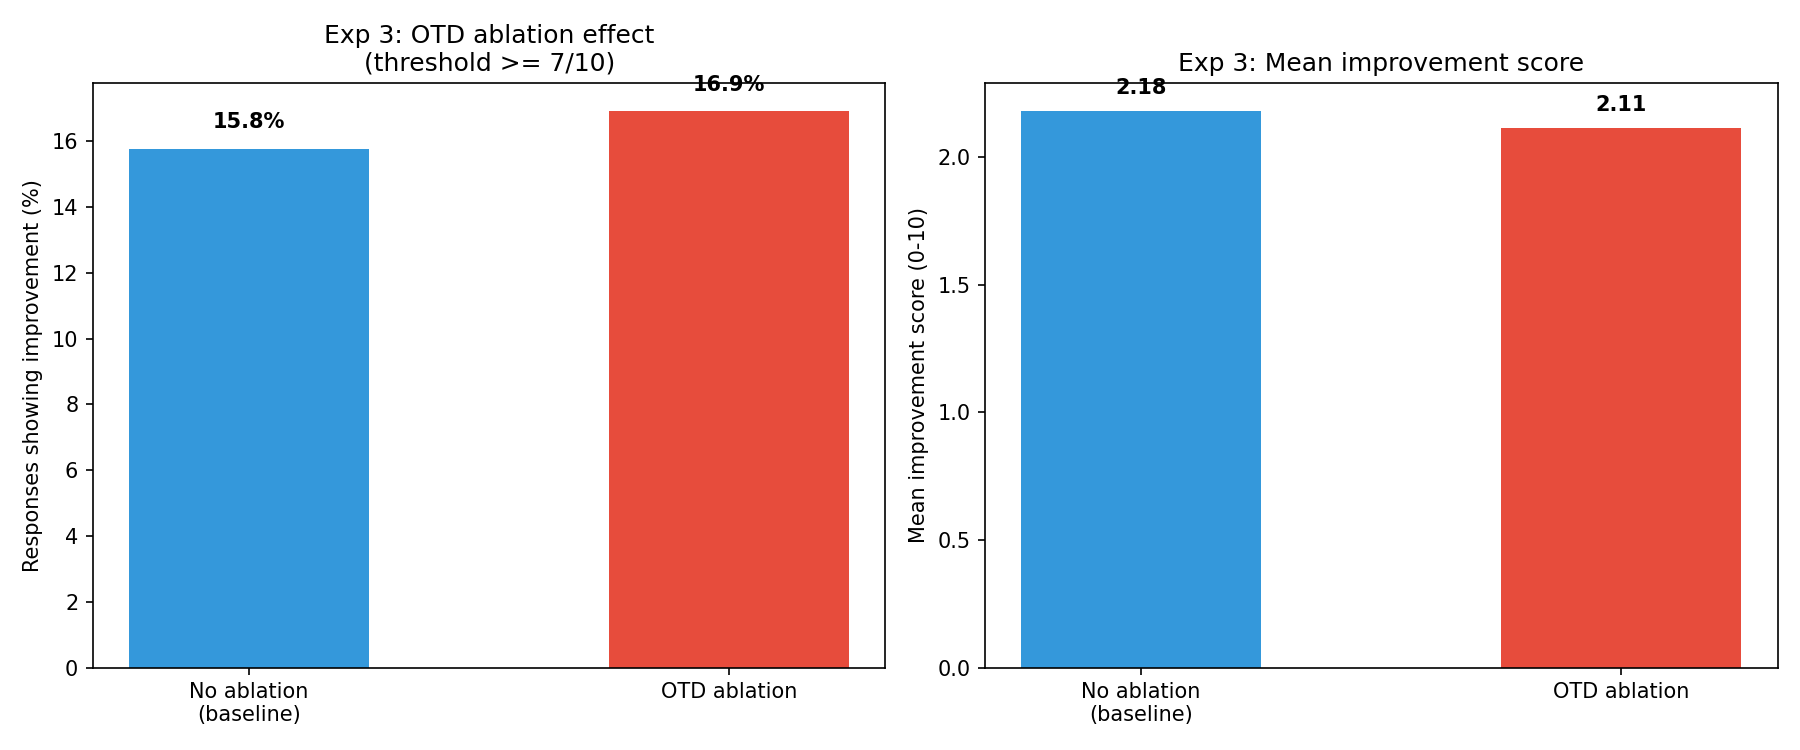
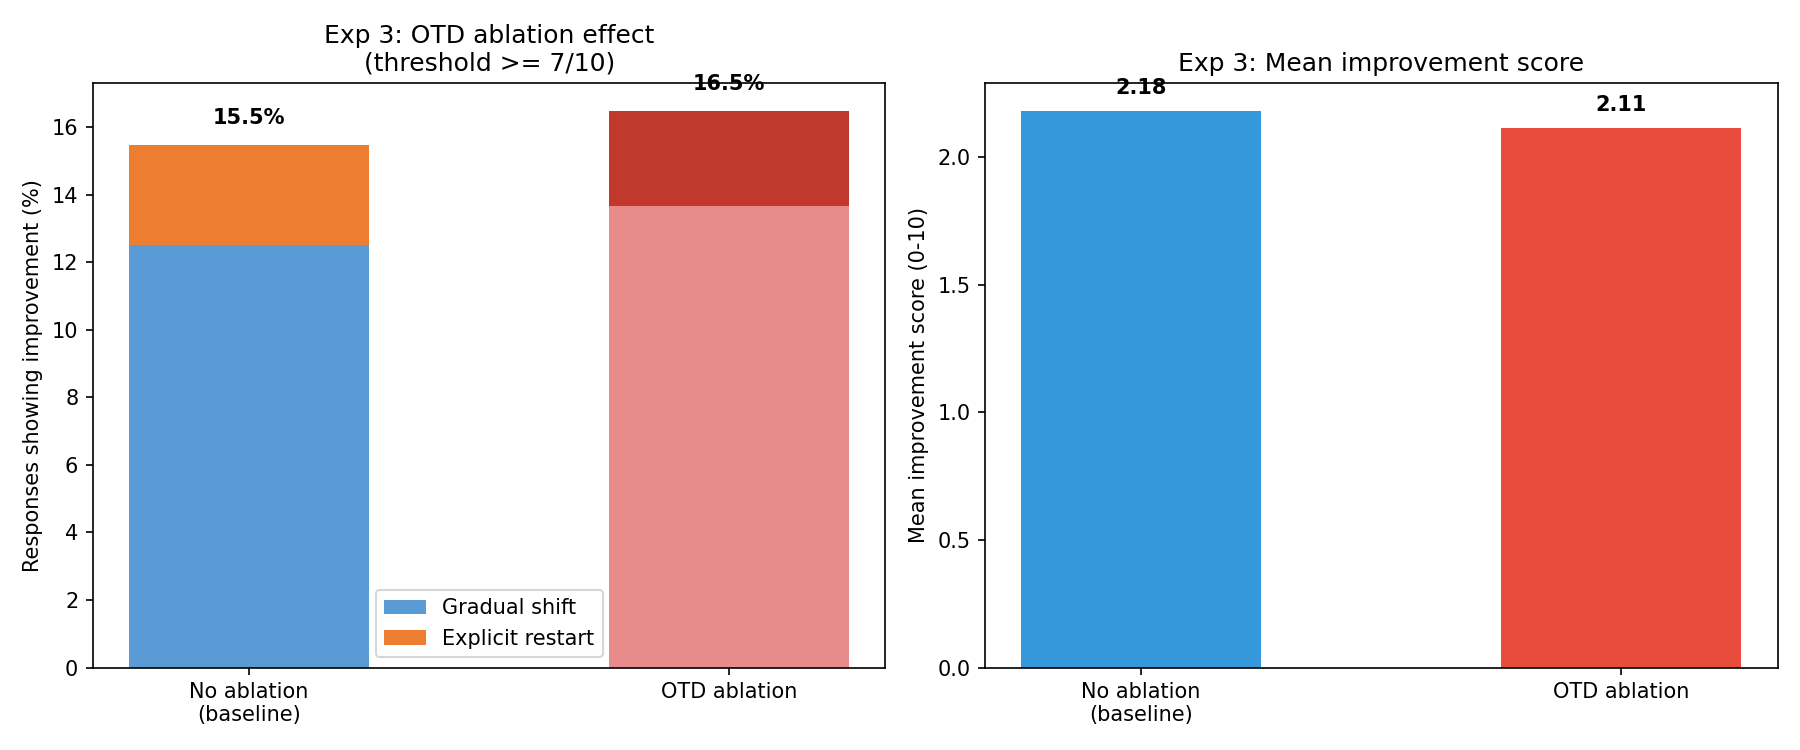
Add explicit/gradual stacked bars to exp3 plot
Shows that the explicit restart component drops slightly with OTD
ablation while the gradual shift component is unchanged.

Changed region(s): [[0.0311, 0.092, 0.4978, 0.8893], [0.0311, 0.1533, 0.0622, 0.184]]

diff --git a/analyze_experiments.py b/analyze_experiments.py
@@ -63,18 +63,20 @@ def analyze_exp3():
     print("EXPERIMENT 3: OTD Ablation (Llama 70B)")
     print("=" * 60)
 
-    # Load ablation results
+    # Load ablation results (full trials)
     exp3 = load_results("whole_response_judge_exp3_results.json")
-    ablation_scores = []
+    ablation_trials = []
     for trials in exp3.values():
-        ablation_scores.extend(get_scores(trials))
+        ablation_trials.extend(get_valid_trials(trials))
+    ablation_scores = [t["improvement_score"] for t in ablation_trials]
 
-    # Load exp1 baseline for Llama 70B
+    # Load exp1 baseline for Llama 70B (full trials)
     exp1 = load_results("whole_response_judge_exp1_results.json")
-    baseline_scores = []
+    baseline_trials = []
     for fpath, trials in exp1.items():
         if "Meta-Llama-3.3-70B" in fpath:
-            baseline_scores.extend(get_scores(trials))
+            baseline_trials.extend(get_valid_trials(trials))
+    baseline_scores = [t["improvement_score"] for t in baseline_trials]
 
     print(f"  Baseline (no ablation): {len(baseline_scores)} trials, "
           f"rate={improvement_rate(baseline_scores):.1f}%, mean={mean_score(baseline_scores):.2f}")
@@ -109,20 +111,32 @@ def analyze_exp3():
     # Plot
     fig, (ax1, ax2) = plt.subplots(1, 2, figsize=(12, 5))
 
-    # Bar chart: rate comparison
+    # Stacked bar chart: gradual + explicit
     labels = ["No ablation\n(baseline)", "OTD ablation"]
-    rates = [improvement_rate(baseline_scores), improvement_rate(ablation_scores)]
-    means = [mean_score(baseline_scores), mean_score(ablation_scores)]
-    colors = ["#3498DB", "#E74C3C"]
+    trial_groups = [baseline_trials, ablation_trials]
 
-    bars = ax1.bar(labels, rates, color=colors, width=0.5)
-    for bar, rate in zip(bars, rates):
-        ax1.text(bar.get_x() + bar.get_width()/2, rate + 0.5, f"{rate:.1f}%",
-                ha="center", va="bottom", fontweight="bold")
+    grad = [gradual_rate(t) for t in trial_groups]
+    expl = [explicit_rate(t) for t in trial_groups]
+    totals = [g + e for g, e in zip(grad, expl)]
+
+    colors_grad = ["#5B9BD5", "#E88B8B"]
+    colors_expl = ["#ED7D31", "#C0392B"]
+
+    for i, (label, g, e, total) in enumerate(zip(labels, grad, expl, totals)):
+        ax1.bar(i, g, width=0.5, color=colors_grad[i],
+                label="Gradual shift" if i == 0 else None)
+        ax1.bar(i, e, bottom=g, width=0.5, color=colors_expl[i],
+                label="Explicit restart" if i == 0 else None)
+        ax1.text(i, total + 0.5, f"{total:.1f}%", ha="center", va="bottom", fontweight="bold")
+
+    ax1.set_xticks([0, 1])
+    ax1.set_xticklabels(labels)
     ax1.set_ylabel("Responses showing improvement (%)")
     ax1.set_title(f"Exp 3: OTD ablation effect\n(threshold >= {THRESHOLD}/10)")
+    ax1.legend()
 
-    bars = ax2.bar(labels, means, color=colors, width=0.5)
+    means = [mean_score(baseline_scores), mean_score(ablation_scores)]
+    bars = ax2.bar(labels, means, color=["#3498DB", "#E74C3C"], width=0.5)
     for bar, m in zip(bars, means):
         ax2.text(bar.get_x() + bar.get_width()/2, m + 0.05, f"{m:.2f}",
                 ha="center", va="bottom", fontweight="bold")
